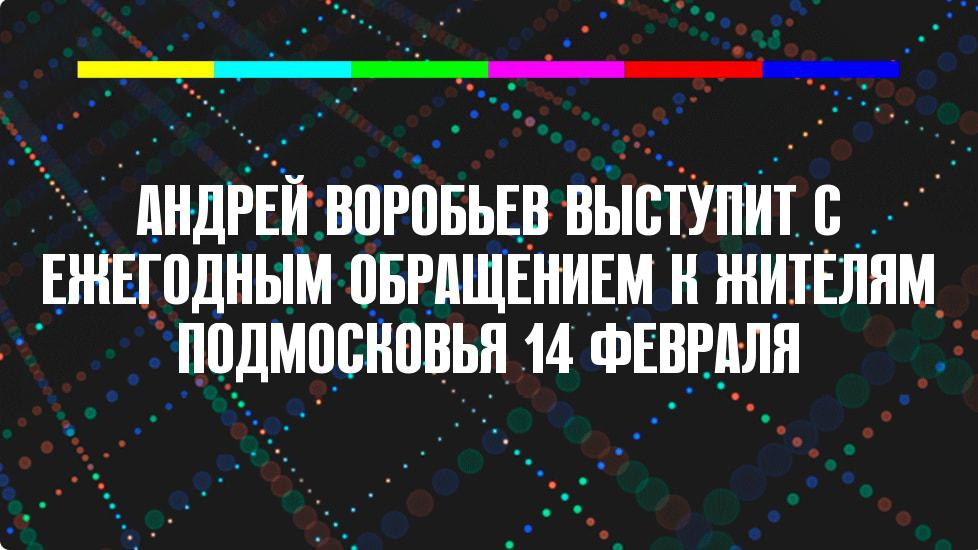
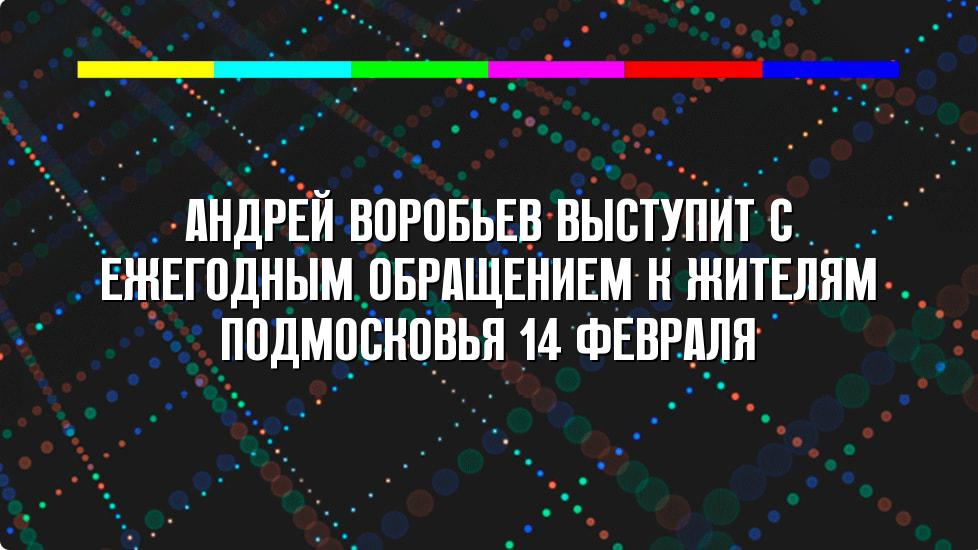
draw black text under main

Changed region(s): [[0.0307, 0.3091, 0.9816, 0.7109]]

diff --git a/draw_image/draw.py b/draw_image/draw.py
@@ -4,16 +4,18 @@ from PIL import ImageDraw
 import textwrap
 
 
-def draw_on_image(image_path, image_save_path, font_path, text_to_draw, font_size=30):
+def draw_on_image(image_path, image_save_path, font_path, text_to_draw, shadowcolor='black', font_size=70):
     """
     Рисуем на изображении буквы
     :param image_path: str - Путь до изображения которое открываем
     :param image_save_path: str - Путь куда сохраняем
     :param font_path: str - Путь до шрифта ttf!
     :param text_to_draw: str - Что пишем собственно говоря
+    :param shadowcolor: str - Цвет обводки
     :param font_size: int - Размер шрифта
     :return:
     """
+
     # Открываем изображение
     img = Image.open(image_path)
     # Получаем размеры
@@ -29,6 +31,10 @@ def draw_on_image(image_path, image_save_path, font_path, text_to_draw, font_siz
     # Получаем размеры текста
     text_width, text_height = draw.textsize(splitted_text, font=font)
     # Начальные координаты, текст, цвет rgb, font=font
+    # Рисуем цветные буквы немного большего размера
+    draw.multiline_text(((img_width-text_width)/2 + 2, (img_height-text_height)/2 + 2),
+                        splitted_text, fill=shadowcolor, font=font, align='center')
+    # Рисуем белый текст
     draw.multiline_text(((img_width-text_width)/2, (img_height-text_height)/2),
                         splitted_text, fill=(255, 255, 255), font=font, align='center')
     # И сохраняем его как новое
@@ -36,8 +42,8 @@ def draw_on_image(image_path, image_save_path, font_path, text_to_draw, font_siz
 
 
 if __name__ == "__main__":
-    draw_on_image(image_path='sample.jpg',
+    draw_on_image(image_path='sample2.jpg',
                   image_save_path='sample_with_text.jpg',
                   font_path='reforma_grotesk_bold.ttf',
                   text_to_draw='АНДРЕЙ ВОРОБЬЕВ ВЫСТУПИТ С ЕЖЕГОДНЫМ ОБРАЩЕНИЕМ К ЖИТЕЛЯМ ПОДМОСКОВЬЯ 14 ФЕВРАЛЯ',
-                  font_size=70)
+                  font_size=60)
